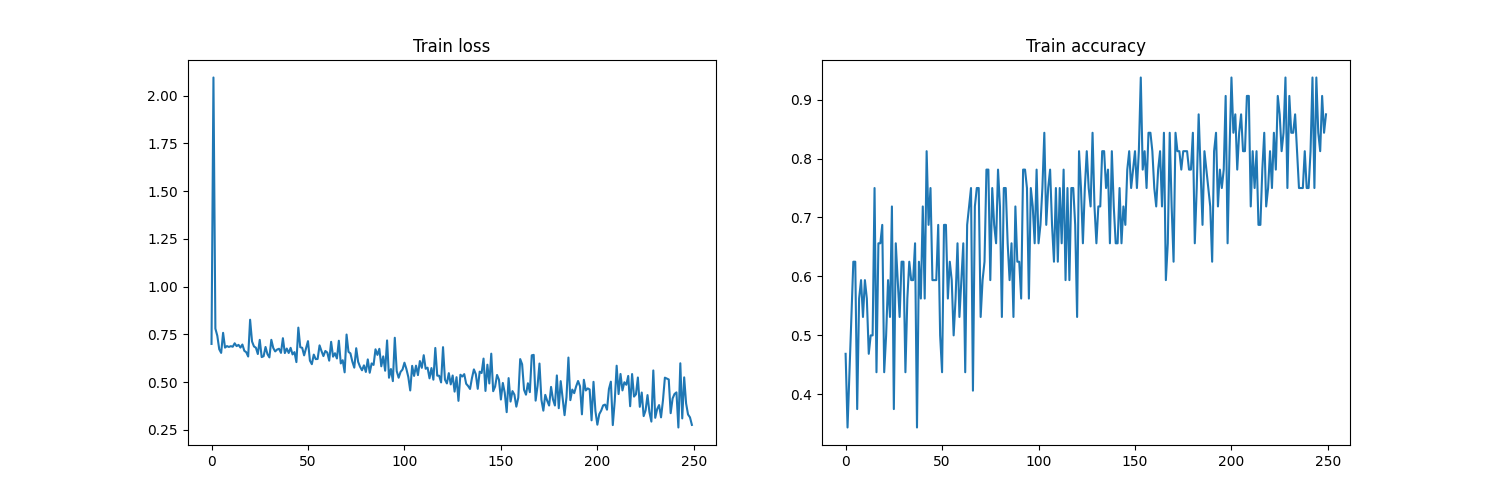
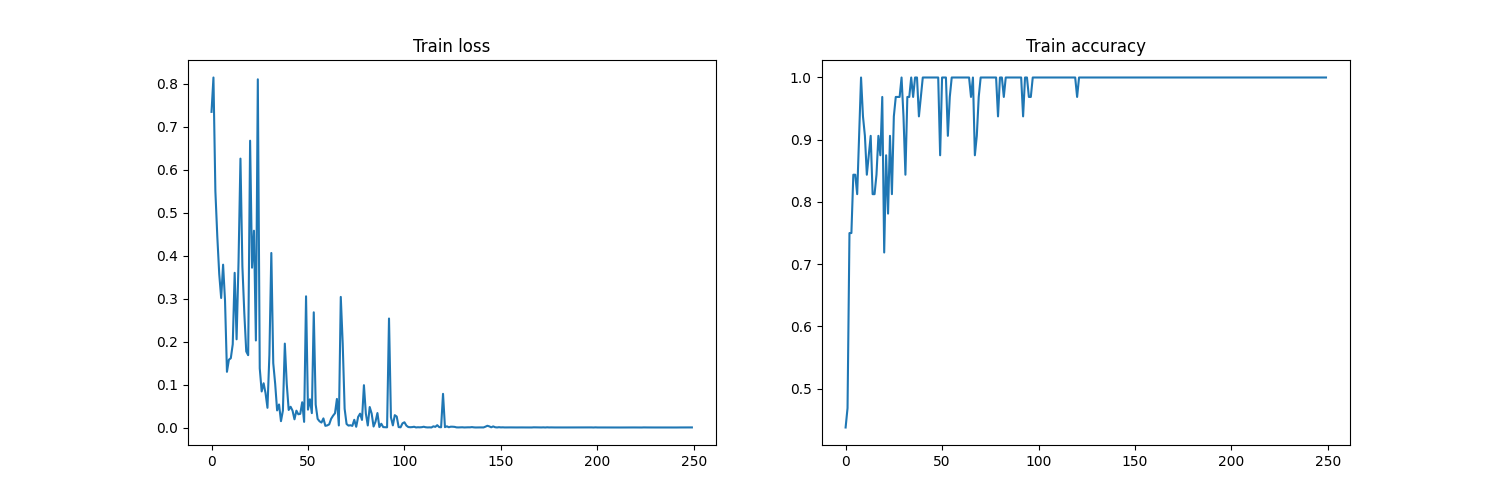
changed model to mobilenetv3

diff --git a/src/catsvsdogs/baseline/train.py b/src/catsvsdogs/baseline/train.py
@@ -1,9 +1,9 @@
 import matplotlib.pyplot as plt
 import torch
 import typer
-from catsvsdogs.model import MobileNetV3
+from catsvsdogs.model import SimpleCNN
+
 from catsvsdogs.data import catsvsdogs
-from tqdm import tqdm
 
 DEVICE = torch.device("cuda" if torch.cuda.is_available() else "mps" if torch.backends.mps.is_available() else "cpu")
 
@@ -13,7 +13,7 @@ def train(lr: float = 1e-3, batch_size: int = 32, epochs: int = 10) -> None:
     print("Training model")
     print(f"{lr=}, {batch_size=}, {epochs=}")
 
-    model = MobileNetV3().to(DEVICE)
+    model = SimpleCNN().to(DEVICE)
     train_set, _ = catsvsdogs()
 
     train_dataloader = torch.utils.data.DataLoader(train_set, batch_size=batch_size)
@@ -22,28 +22,25 @@ def train(lr: float = 1e-3, batch_size: int = 32, epochs: int = 10) -> None:
     optimizer = torch.optim.Adam(model.parameters(), lr=lr)
 
     statistics = {"train_loss": [], "train_accuracy": []}
-
     for epoch in range(epochs):
         model.train()
-        progress_bar = tqdm(enumerate(train_dataloader), total=len(train_dataloader), desc=f"Epoch {epoch+1}/{epochs}")
-        for i, (img, target) in progress_bar:
+        for i, (img, target) in enumerate(train_dataloader):
             img, target = img.to(DEVICE), target.to(DEVICE)
             optimizer.zero_grad()
             y_pred = model(img)
             loss = loss_fn(y_pred, target)
             loss.backward()
             optimizer.step()
-
             statistics["train_loss"].append(loss.item())
+
             accuracy = (y_pred.argmax(dim=1) == target).float().mean().item()
             statistics["train_accuracy"].append(accuracy)
 
-            progress_bar.set_postfix({"loss": loss.item(), "accuracy": accuracy})
+            if i % 100 == 0:
+                print(f"Epoch {epoch}, iter {i}, loss: {loss.item()}")
 
     print("Training complete")
     torch.save(model.state_dict(), "models/model.pth")
-
-    # Save training statistics as a figure
     fig, axs = plt.subplots(1, 2, figsize=(15, 5))
     axs[0].plot(statistics["train_loss"])
     axs[0].set_title("Train loss")

diff --git a/src/catsvsdogs/model.py b/src/catsvsdogs/model.py
@@ -1,36 +1,11 @@
-import torch
+import timm
 from torch import nn
 
+class MobileNetV3(nn.Module):
+    def __init__(self, pretrained: bool = True):
+        super(MobileNetV3, self).__init__()
+        self.model = timm.create_model('mobilenetv3_large_100', pretrained=pretrained)
+        self.model.classifier = nn.Linear(self.model.classifier.in_features, 2)
 
-class SimpleCNN(nn.Module):
-    """Simple CNN model."""
-
-    def __init__(self) -> None:
-        super().__init__()
-        self.conv1 = nn.Conv2d(3, 32, 3, 1)
-        self.conv2 = nn.Conv2d(32, 64, 3, 1)
-        self.conv3 = nn.Conv2d(64, 128, 3, 1)
-        self.dropout = nn.Dropout(0.5)
-        self.fc1 = nn.Linear(14 * 14 * 128, 2) # 14x14 image dimension on the last layer
-
-    def forward(self, x: torch.Tensor) -> torch.Tensor:
-        """Forward pass."""
-        x = torch.relu(self.conv1(x))
-        x = torch.max_pool2d(x, 2, 2)
-        x = torch.relu(self.conv2(x))
-        x = torch.max_pool2d(x, 2, 2)
-        x = torch.relu(self.conv3(x))
-        x = torch.max_pool2d(x, 2, 2)
-        x = torch.flatten(x, 1)
-        x = self.dropout(x)
-        return self.fc1(x)
-
-
-if __name__ == "__main__":
-    model = SimpleCNN()
-    print(f"Model architecture: {model}")
-    print(f"Number of parameters: {sum(p.numel() for p in model.parameters())}")
-
-    dummy_input = torch.randn(1, 3, 128, 128)
-    output = model(dummy_input)
-    print(f"Output shape: {output.shape}")
+    def forward(self, x):
+        return self.model(x)

diff --git a/src/catsvsdogs/baseline/model.py b/src/catsvsdogs/baseline/model.py
@@ -1,0 +1,36 @@
+import torch
+from torch import nn
+
+
+class SimpleCNN(nn.Module):
+    """Simple CNN model."""
+
+    def __init__(self) -> None:
+        super().__init__()
+        self.conv1 = nn.Conv2d(3, 32, 3, 1)
+        self.conv2 = nn.Conv2d(32, 64, 3, 1)
+        self.conv3 = nn.Conv2d(64, 128, 3, 1)
+        self.dropout = nn.Dropout(0.5)
+        self.fc1 = nn.Linear(14 * 14 * 128, 2) # 14x14 image dimension on the last layer
+
+    def forward(self, x: torch.Tensor) -> torch.Tensor:
+        """Forward pass."""
+        x = torch.relu(self.conv1(x))
+        x = torch.max_pool2d(x, 2, 2)
+        x = torch.relu(self.conv2(x))
+        x = torch.max_pool2d(x, 2, 2)
+        x = torch.relu(self.conv3(x))
+        x = torch.max_pool2d(x, 2, 2)
+        x = torch.flatten(x, 1)
+        x = self.dropout(x)
+        return self.fc1(x)
+
+
+if __name__ == "__main__":
+    model = SimpleCNN()
+    print(f"Model architecture: {model}")
+    print(f"Number of parameters: {sum(p.numel() for p in model.parameters())}")
+
+    dummy_input = torch.randn(1, 3, 128, 128)
+    output = model(dummy_input)
+    print(f"Output shape: {output.shape}")

diff --git a/src/catsvsdogs/evaluate.py b/src/catsvsdogs/evaluate.py
@@ -1,0 +1,35 @@
+import torch
+import typer
+from catsvsdogs.model import MobileNetV3
+
+from catsvsdogs.data import catsvsdogs
+
+DEVICE = torch.device("cuda" if torch.cuda.is_available() else "mps" if torch.backends.mps.is_available() else "cpu")
+
+
+def evaluate(model_checkpoint: str = "models/model.pth") -> None:
+    """Evaluate a trained model."""
+    print("Evaluating model ont test set")
+    print(model_checkpoint)
+
+    model = MobileNetV3().to(DEVICE)
+    model.load_state_dict(torch.load(model_checkpoint))
+
+    _, test_set = catsvsdogs()
+    test_dataloader = torch.utils.data.DataLoader(test_set, batch_size=32)
+
+    model.eval()
+    correct, total = 0, 0
+    for img, target in test_dataloader:
+        img, target = (
+            img.to(DEVICE),
+            target.to(DEVICE),
+        )
+        y_pred = model(img)
+        correct += (y_pred.argmax(dim=1) == target).float().sum().item()
+        total += target.size(0)
+    print(f"Test accuracy: {correct / total}")
+
+
+if __name__ == "__main__":
+    typer.run(evaluate)
